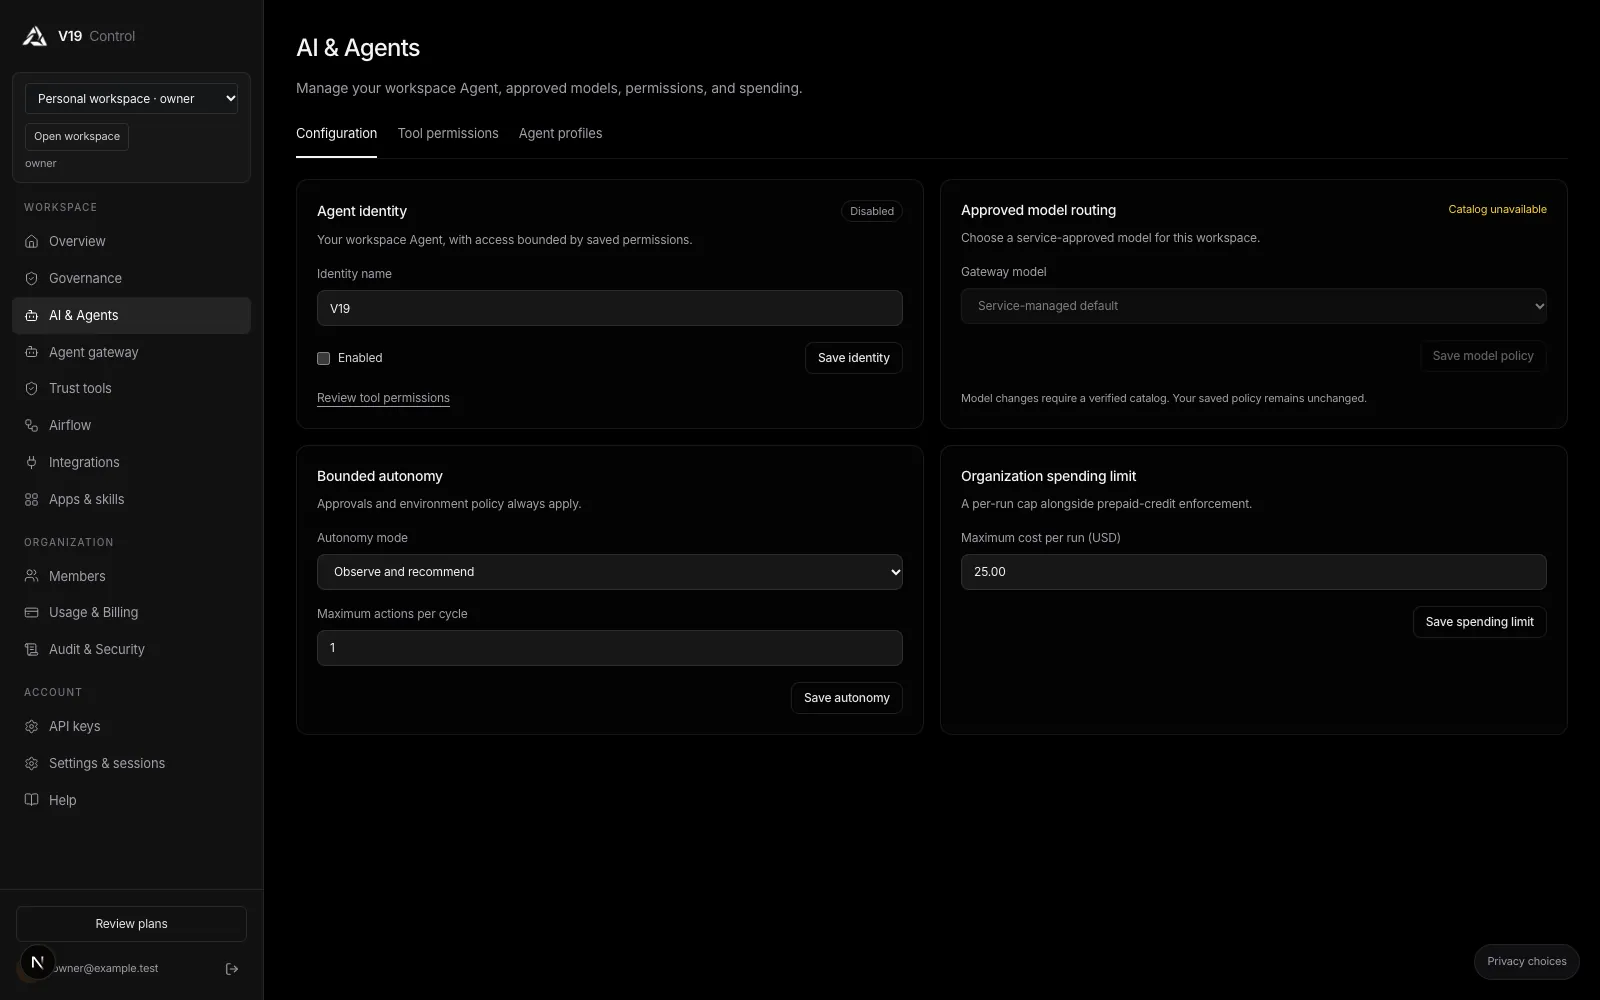
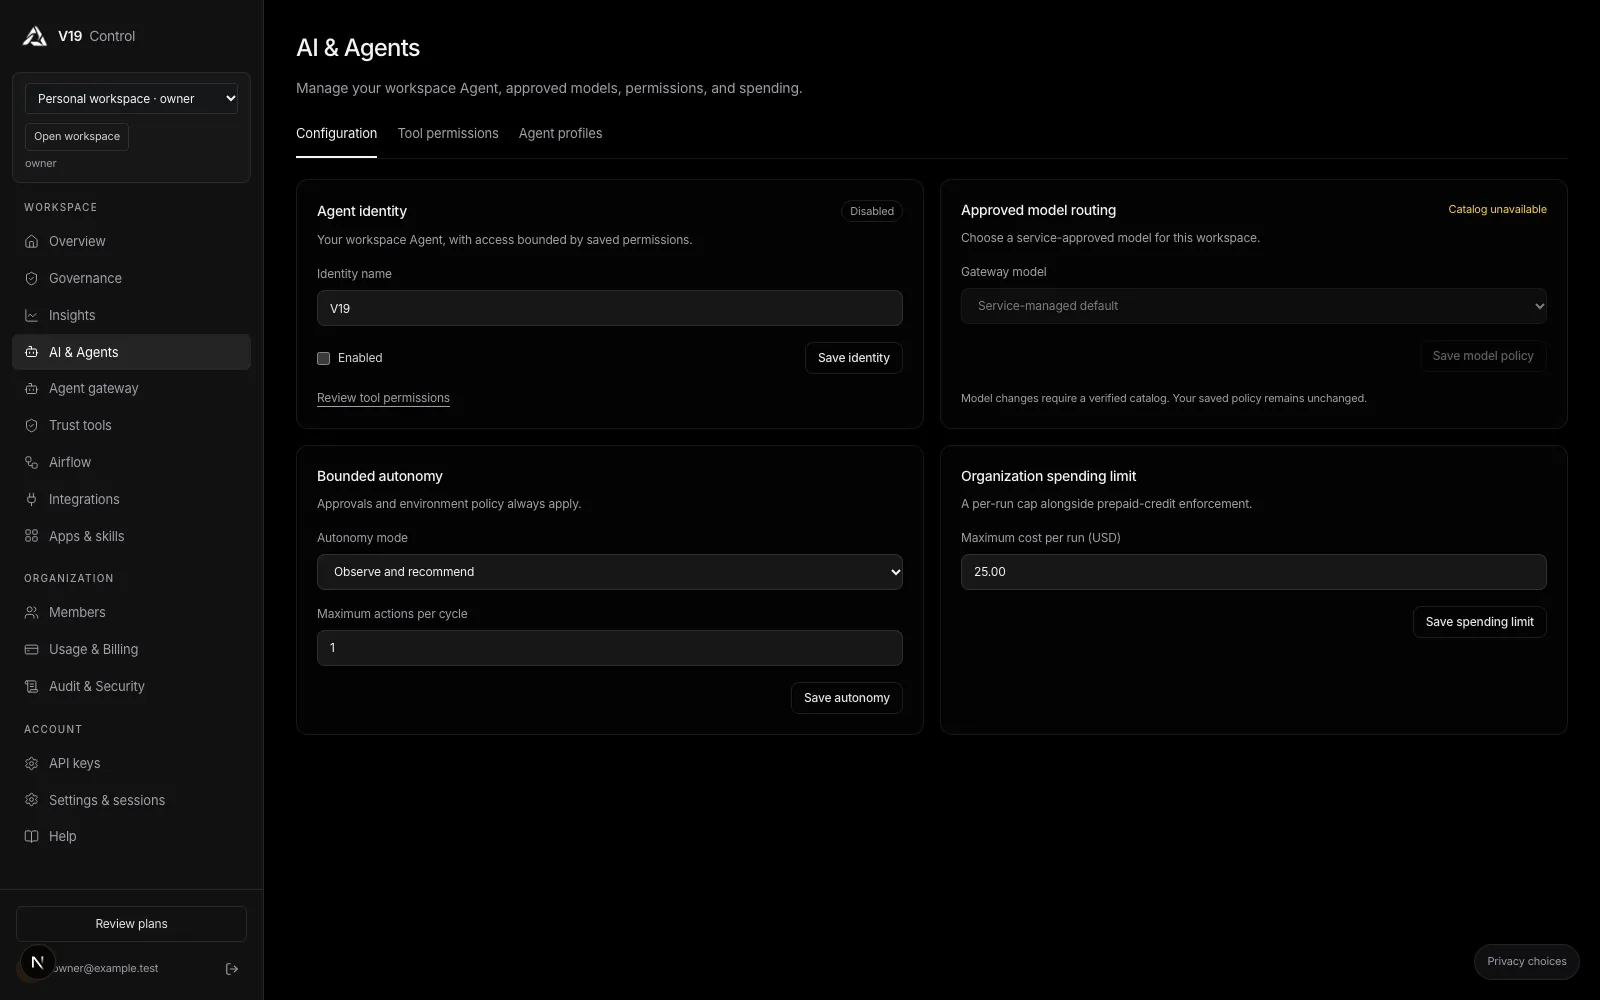
Cockpit: Insights empty state; refresh cockpit docs images
Insights explains an empty 30-day window instead of showing 0.0 and a
flat line. Cockpit docs images are refreshed for the new sidebar entry
and contrast fixes, and the Workspaces guide shows the Insights page.

Changed region(s): [[0.0, 0.496, 0.0938, 0.651], [0.0312, 0.682, 0.0938, 0.806], [0.0312, 0.31, 0.0938, 0.465]]

diff --git a/app/docs/workspaces/page.tsx b/app/docs/workspaces/page.tsx
@@ -18,6 +18,7 @@ export default function WorkspacesGuide() {
    <Callout variant="warning" title="Selection is not authorization">Every protected operation still needs its own current role, provider access, policy and approval checks. Opening a workspace is not permission to deploy or approve someone else&apos;s request.</Callout>
   </DocSection>
   <DocSection id="insights" kicker="04" title="Delivery insights for the workspace">
+   <DocFigure src="/docs/cockpit/insights.webp" alt="The Delivery insights page in the V19 cockpit" caption="Delivery insights in the cockpit, shown for a new synthetic workspace with no runs yet." width={1600} height={1000} />
    <p>In the cockpit, <strong>Insights</strong> shows how often the workspace ships and how quickly it recovers: workflow runs and runs per week, run success rate and median time to complete over the last 30 days, and open incidents with median time to mitigate and resolve over the last 90 days. Figures come only from recorded workflow runs and incidents. A workflow failure is not always a failed change, and lead time from commit is not measured, so treat these as operating signals rather than DORA certification.</p>
   </DocSection>
   <DocFooterNav prev={{href:"/docs/mcp-tools",label:"MCP tools"}} next={{href:"/docs/members",label:"Members and roles"}} />

diff --git a/app/control/insights/page.tsx b/app/control/insights/page.tsx
@@ -68,7 +68,8 @@ export default async function InsightsPage() {
 
       <section aria-labelledby="insights-delivery" className="mt-8">
         <h2 id="insights-delivery" className="text-base font-medium">Delivery · last {OUTCOME_WINDOW_DAYS} days</h2>
-        {!outcome ? <p role="status" className="mt-3 text-sm text-zinc-400">Workflow run records could not be read. Nothing is shown rather than an estimate.</p> : <>
+        {!outcome ? <p role="status" className="mt-3 text-sm text-zinc-400">Workflow run records could not be read. Nothing is shown rather than an estimate.</p>
+          : outcome.recorded === 0 ? <p role="status" className="mt-3 text-sm text-zinc-400">No workflow runs were recorded in the last {OUTCOME_WINDOW_DAYS} days. Runs appear here after a governed release dispatches its workflow.</p> : <>
           <dl className="mt-4 grid gap-3 sm:grid-cols-2 lg:grid-cols-4">
             <Metric label="Workflow runs" value={outcome.recorded.toLocaleString()} note={change === null ? undefined : `${change >= 0 ? "+" : ""}${change}% vs previous ${OUTCOME_WINDOW_DAYS} days`} />
             <Metric label="Runs per week" value={perWeek ?? "—"} note="Deployment frequency proxy" />

diff --git a/app/control/insights/__tests__/page.test.ts b/app/control/insights/__tests__/page.test.ts
@@ -44,3 +44,11 @@ it("shows nothing rather than an estimate when records cannot be read", async ()
     "Incident records could not be read. Nothing is shown rather than an estimate.",
   ]);
 });
+
+it("explains an empty window instead of showing zero rates", async () => {
+  io.runs.mockResolvedValue([]);
+  io.count.mockResolvedValue(0);
+  render(await Page());
+  expect(screen.getAllByRole("status")[0].textContent).toContain("No workflow runs were recorded in the last 30 days");
+  expect(screen.queryByText("Runs per week")).toBeNull();
+});
